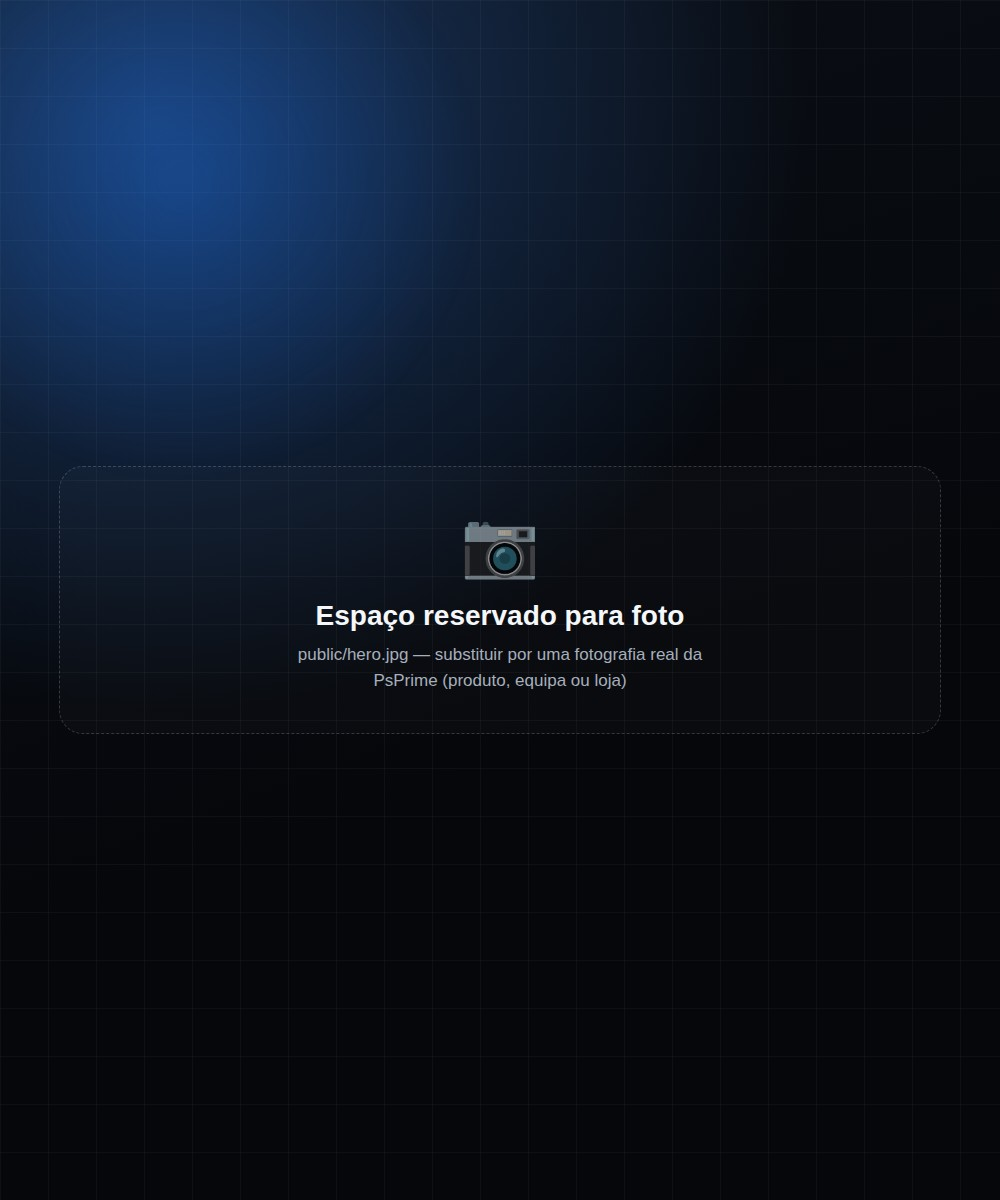
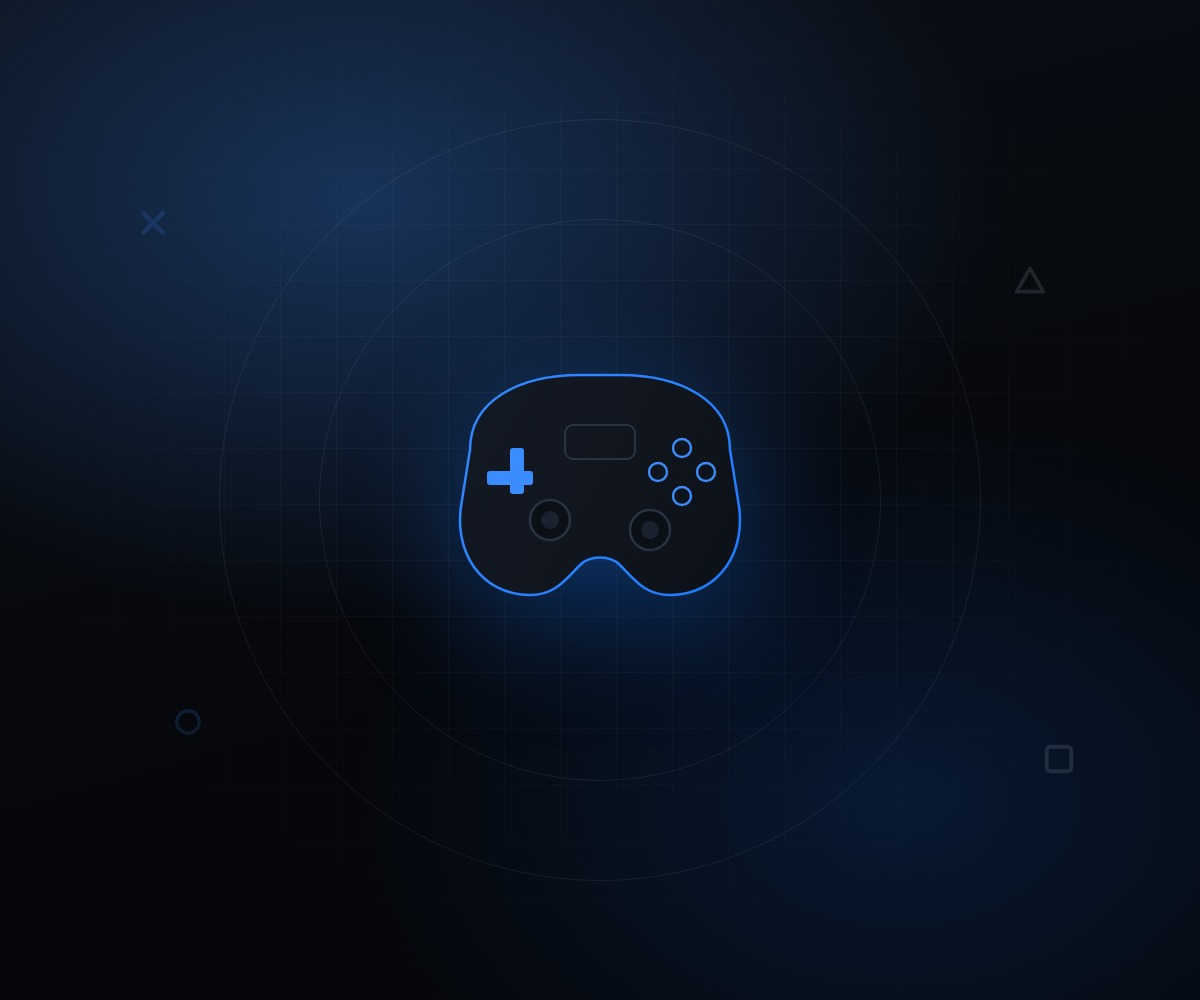
Substitui placeholder do hero por ilustração de marca + ícones nas categorias
O hero mostrava texto "espaço reservado para foto" a visitantes reais no
site em produção — substituído por uma ilustração de marca própria
(comando estilizado com glow azul, anéis e grelha subtil, símbolos
PlayStation a condizer com os já flutuantes na página), gerada localmente
sem dependências externas. Fica pronta a trocar por uma fotografia real
bastando substituir public/hero.jpg, sem alterar código.

Categorias da homepage passam a ter um ícone de linha (consola, comando,
disco, auscultadores) para reforçar reconhecimento rápido, mantendo o
mesmo número de elementos — sem adicionar itens novos à página.

Claude-Session: https://claude.ai/code/session_01LirXijFTqnkBMvayd5RtTB

Changed region(s): [[0.31, 0.341, 0.93, 0.961], [0.0, 0.0, 0.372, 0.31]]

diff --git a/app/page.tsx b/app/page.tsx
@@ -5,6 +5,14 @@ import { ProductCard } from "@/components/ProductCard";
 import { ButtonLink } from "@/components/ui/Button";
 import { FloatingSymbols } from "@/components/FloatingSymbols";
 import { CATEGORIES_SEED } from "@/lib/constants";
+import { ConsoleIcon, ControllerIcon, DiscIcon, AccessoryIcon } from "@/components/icons/CategoryIcons";
+
+const CATEGORY_ICONS: Record<string, typeof ConsoleIcon> = {
+  consolas: ConsoleIcon,
+  comandos: ControllerIcon,
+  jogos: DiscIcon,
+  acessorios: AccessoryIcon,
+};
 
 export const dynamic = "force-dynamic";
 
@@ -58,10 +66,12 @@ export default async function HomePage() {
           </div>
 
           <div className="relative min-h-[320px] overflow-hidden rounded-card lg:min-h-[480px]">
-            {/* TODO: substituir por uma fotografia real da PsPrime (produto, equipa ou loja) */}
+            {/* Ilustração de marca — substituir por uma fotografia real da PsPrime
+                (produto, equipa ou loja) assim que estiver disponível: basta
+                trocar o ficheiro public/hero.jpg, sem alterar código. */}
             <Image
               src="/hero.jpg"
-              alt="Consolas e acessórios PlayStation PsPrime"
+              alt="PsPrime — universo PlayStation"
               fill
               priority
               className="object-cover"
@@ -78,15 +88,23 @@ export default async function HomePage() {
       <section className="mx-auto max-w-7xl px-4 py-12 sm:px-6 lg:px-8">
         <h2 className="mb-6 text-xl font-bold">Categorias</h2>
         <div className="grid grid-cols-2 gap-4 sm:grid-cols-4">
-          {CATEGORIES_SEED.map((cat) => (
-            <Link
-              key={cat.slug}
-              href={`/catalogo?categoria=${cat.slug}`}
-              className="card flex aspect-square flex-col items-center justify-center gap-2 p-4 text-center transition-colors hover:border-primary/50"
-            >
-              <span className="font-semibold">{cat.name}</span>
-            </Link>
-          ))}
+          {CATEGORIES_SEED.map((cat) => {
+            const Icon = CATEGORY_ICONS[cat.slug];
+            return (
+              <Link
+                key={cat.slug}
+                href={`/catalogo?categoria=${cat.slug}`}
+                className="card group flex aspect-square flex-col items-center justify-center gap-3 p-4 text-center transition-colors hover:border-primary/50"
+              >
+                {Icon && (
+                  <span className="flex h-12 w-12 items-center justify-center rounded-full border border-border text-text-muted transition-colors group-hover:border-primary/50 group-hover:text-primary-light">
+                    <Icon className="h-6 w-6" />
+                  </span>
+                )}
+                <span className="font-semibold">{cat.name}</span>
+              </Link>
+            );
+          })}
         </div>
       </section>
 

diff --git a/components/icons/CategoryIcons.tsx b/components/icons/CategoryIcons.tsx
@@ -1,0 +1,44 @@
+import type { SVGProps } from "react";
+
+/** Ícones de linha minimalistas para as categorias — mesma linguagem visual dos símbolos flutuantes. */
+
+export function ConsoleIcon(props: SVGProps<SVGSVGElement>) {
+  return (
+    <svg viewBox="0 0 24 24" fill="none" stroke="currentColor" strokeWidth="1.6" strokeLinecap="round" strokeLinejoin="round" {...props}>
+      <rect x="3" y="8" width="18" height="9" rx="3" />
+      <path d="M7 12h2M8 11v2" />
+      <circle cx="16" cy="11.5" r="0.9" fill="currentColor" stroke="none" />
+      <circle cx="18" cy="13.5" r="0.9" fill="currentColor" stroke="none" />
+    </svg>
+  );
+}
+
+export function ControllerIcon(props: SVGProps<SVGSVGElement>) {
+  return (
+    <svg viewBox="0 0 24 24" fill="none" stroke="currentColor" strokeWidth="1.6" strokeLinecap="round" strokeLinejoin="round" {...props}>
+      <path d="M7 9c-2.5 0-4 2-3.6 4.5l.4 2.2c.3 1.6 2.2 2.2 3.3 1l.6-.7a2 2 0 0 1 1.5-.7h5.6a2 2 0 0 1 1.5.7l.6.7c1.1 1.2 3 .6 3.3-1l.4-2.2C21 11 19.5 9 17 9Z" />
+      <path d="M8.5 12.5h2M9.5 11.5v2" />
+      <circle cx="16.5" cy="11.8" r="0.7" fill="currentColor" stroke="none" />
+      <circle cx="15" cy="13.3" r="0.7" fill="currentColor" stroke="none" />
+    </svg>
+  );
+}
+
+export function DiscIcon(props: SVGProps<SVGSVGElement>) {
+  return (
+    <svg viewBox="0 0 24 24" fill="none" stroke="currentColor" strokeWidth="1.6" {...props}>
+      <circle cx="12" cy="12" r="8.5" />
+      <circle cx="12" cy="12" r="2.4" />
+    </svg>
+  );
+}
+
+export function AccessoryIcon(props: SVGProps<SVGSVGElement>) {
+  return (
+    <svg viewBox="0 0 24 24" fill="none" stroke="currentColor" strokeWidth="1.6" strokeLinecap="round" strokeLinejoin="round" {...props}>
+      <path d="M5 12a7 7 0 0 1 14 0v4" />
+      <rect x="3.5" y="12" width="3.5" height="5" rx="1.2" />
+      <rect x="17" y="12" width="3.5" height="5" rx="1.2" />
+    </svg>
+  );
+}
